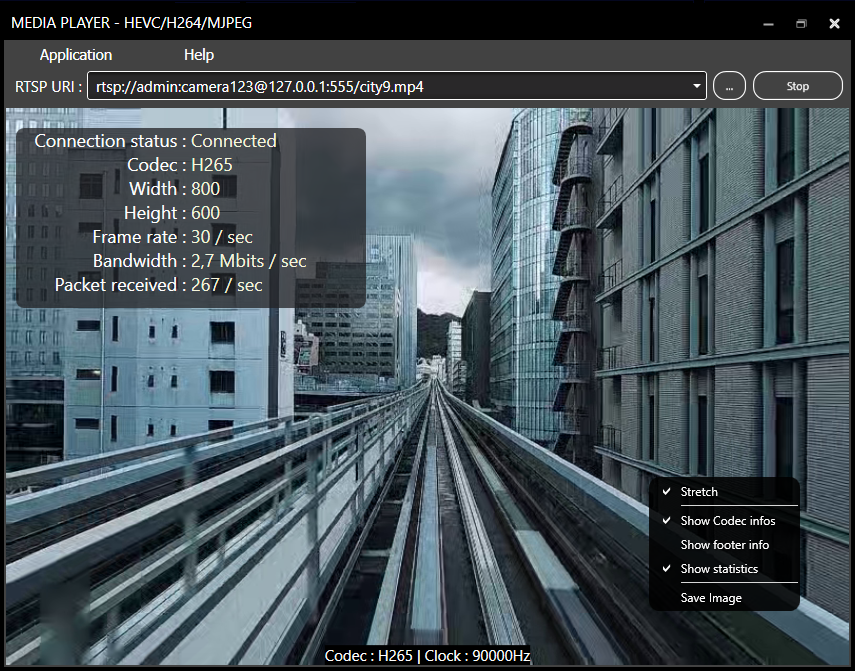
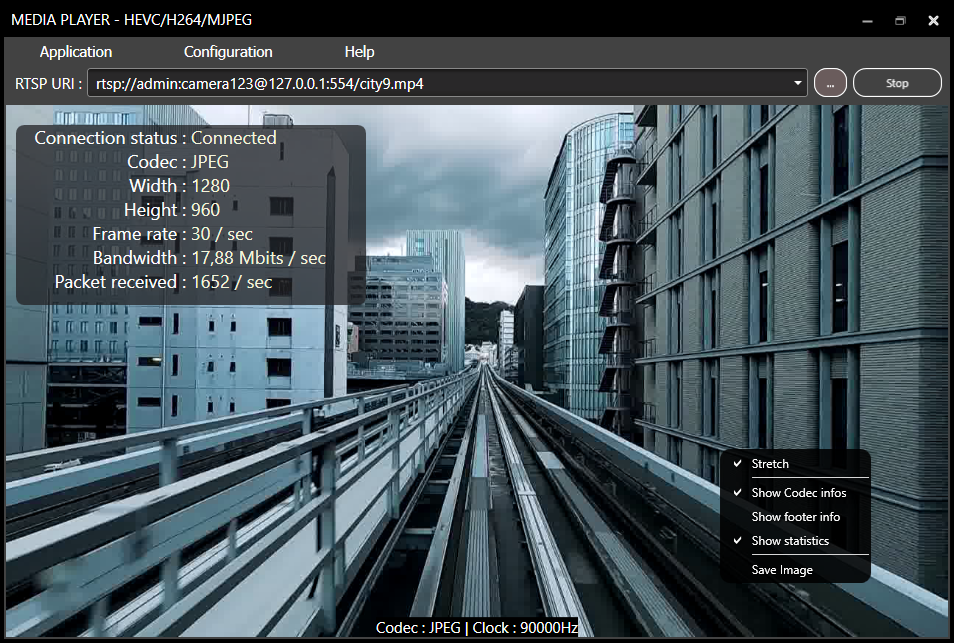
adding the network settings dialog

diff --git a/RabbitOM.Player/Dialogs/NetworkSettingsDialog.xaml b/RabbitOM.Player/Dialogs/NetworkSettingsDialog.xaml
@@ -1,0 +1,90 @@
+<Window x:Class="RabbitOM.Player.Dialogs.NetworkSettingsDialog"
+        xmlns="http://schemas.microsoft.com/winfx/2006/xaml/presentation"
+        xmlns:x="http://schemas.microsoft.com/winfx/2006/xaml"
+        xmlns:d="http://schemas.microsoft.com/expression/blend/2008"
+        xmlns:mc="http://schemas.openxmlformats.org/markup-compatibility/2006"
+        xmlns:local="clr-namespace:RabbitOM.Player.Dialogs"
+        mc:Ignorable="d"
+        Title="Network settings" 
+        Height="100" 
+        Width="330"
+        MinWidth="330"
+        MinHeight="150"
+        WindowStartupLocation="CenterOwner"
+        Style="{DynamicResource WindowStyle}"
+        >
+
+    <Window.CommandBindings>
+
+        <CommandBinding Command="{x:Static local:AboutDialog.CloseCommand}" Executed="OnClose" />
+
+    </Window.CommandBindings>
+
+    
+    <Grid Background="#FF121212" >
+
+        <Grid.RowDefinitions>
+
+            <RowDefinition Height="*" />
+            <RowDefinition Height="50" />
+            
+        </Grid.RowDefinitions>
+
+        <Grid Grid.Row="0"
+              Margin="0,30,0,0"
+              >
+
+            <Grid>
+
+                <Grid.ColumnDefinitions>
+                    <ColumnDefinition Width="100" />
+                    <ColumnDefinition Width="*" />
+                </Grid.ColumnDefinitions>
+
+                <Grid Grid.Column="0" >
+
+                    <TextBlock Text="Transport :"
+                               Foreground="White"
+                               HorizontalAlignment="Right"
+                               />
+
+                </Grid>
+
+                <Grid Grid.Column="1" 
+                      Margin="10,0,0,0"
+                      >
+
+                    <ComboBox  Text=""
+                               Foreground="White"
+                               HorizontalAlignment="Left"
+                               VerticalAlignment="Top"
+                               IsEditable="False"
+                               IsReadOnly="True"
+                               Background="Black"
+                               Width="200"
+                               Margin="0,-1,0,0"
+                               SelectedIndex="0"
+                               ItemsSource="{Binding Transports,RelativeSource={RelativeSource AncestorType=Window}}"
+                               />
+
+                </Grid>
+
+            </Grid>
+
+        </Grid>
+
+        <Grid Grid.Row="1">
+
+            <Button Content="Ok"
+                    HorizontalAlignment="Right"
+                    VerticalAlignment="Bottom"
+                    Width="80"
+                    Margin="0,0,10,10"
+                    IsCancel="True"
+                    Command="{x:Static local:AboutDialog.CloseCommand}"
+                    />
+        </Grid>
+        
+    </Grid>
+    
+</Window>

diff --git a/RabbitOM.Player/Styles/ComboBoxStyle.xaml b/RabbitOM.Player/Styles/ComboBoxStyle.xaml
@@ -10,10 +10,12 @@
     </LinearGradientBrush>
 
     <ControlTemplate  x:Key="ComboBoxTextBox" TargetType="{x:Type TextBox}">
+
         <ScrollViewer x:Name="PART_ContentHost" 
                       Focusable="False" 
                       Background="{TemplateBinding Background}" 
                       />
+        
     </ControlTemplate>
 
     <ControlTemplate x:Key="ComboBoxToggleButton" TargetType="{x:Type ToggleButton}">
@@ -120,6 +122,7 @@
                              To="0.0" 
                              Duration="0:0:0.25"
                              />
+                        
                     </Storyboard>
 
                 </BeginStoryboard>
@@ -366,6 +369,11 @@
                     
                     <ControlTemplate.Triggers>
 
+                        <Trigger Property="IsReadOnly" Value="True">
+                            <Setter TargetName="ToggleButton" Property="HorizontalAlignment" Value="Stretch" />
+                            <Setter TargetName="ToggleButton" Property="Width" Value="Auto" />
+                        </Trigger>
+                        
                         <Trigger Property="IsFocused" Value="True">
                             <Setter Property="BorderBrush" TargetName="Border" Value="White"/>
                         </Trigger>

diff --git a/RabbitOM.Player/MainWindow.xaml b/RabbitOM.Player/MainWindow.xaml
@@ -42,6 +42,10 @@
                         Executed="OnShowUrisDialog"
                         />
 
+        <CommandBinding Command="{x:Static local:MainWindow.ShowNetworkSettingsDialogCommand}" 
+                        Executed="OnShowNetworkSettingsDialog"
+                        />
+
         <CommandBinding Command="{x:Static ApplicationCommands.Close}"
                         Executed="OnCloseApplication" 
                         />
@@ -56,6 +60,10 @@
                 <MenuItem Header="Close" Command="{x:Static ApplicationCommands.Close}" />
             </MenuItem>
 
+            <MenuItem Header="Configuration">
+                <MenuItem Header="Network settings" Command="{x:Static local:MainWindow.ShowNetworkSettingsDialogCommand}" />
+            </MenuItem>
+            
             <MenuItem Header="Help">
                 <MenuItem Header="Version" Command="{x:Static local:MainWindow.ShowAboutDialogCommand}" />
             </MenuItem>

diff --git a/RabbitOM.Player/Dialogs/UrisDialog.xaml b/RabbitOM.Player/Dialogs/UrisDialog.xaml
@@ -5,7 +5,7 @@
         xmlns:mc="http://schemas.openxmlformats.org/markup-compatibility/2006"
         xmlns:local="clr-namespace:RabbitOM.Player.Dialogs"
         mc:Ignorable="d"
-        Title="About" 
+        Title="Sources" 
         Height="490" 
         Width="480"
         MinWidth="380"

diff --git a/RabbitOM.Player/MainWindow.xaml.cs b/RabbitOM.Player/MainWindow.xaml.cs
@@ -28,6 +28,7 @@ namespace RabbitOM.Player
         public static readonly RoutedCommand SaveImageCommand = new RoutedCommand();
         public static readonly RoutedCommand ShowAboutDialogCommand = new RoutedCommand();
         public static readonly RoutedCommand ShowUrisDialogCommand = new RoutedCommand();
+        public static readonly RoutedCommand ShowNetworkSettingsDialogCommand = new RoutedCommand();
 
         public static readonly DependencyProperty ImageProperty = DependencyProperty.Register( "Image", typeof(ImageSource) , typeof(MainWindow) );
         public static readonly DependencyProperty StatusInfoProperty = DependencyProperty.Register( "StatusInfo", typeof(string) , typeof(MainWindow) );
@@ -196,6 +197,13 @@ namespace RabbitOM.Player
                 Uris.AddRange( dialog.Uris.Select( uri => uri.Value ) );
                 SelectedUri = Uris.Contains( selectedUri ) ? selectedUri : Uris.FirstOrDefault();
             }
+        }
+
+        private void OnShowNetworkSettingsDialog( object sender , ExecutedRoutedEventArgs e )
+        {
+            var dialog = new NetworkSettingsDialog() { Owner = Window.GetWindow( this ) };
+
+            dialog.ShowDialog();
         }
 
         private void OnCommunicationStarted( object sender , RtspClientCommunicationStartedEventArgs e )

diff --git a/RabbitOM.Player/Dialogs/NetworkSettingsDialog.xaml.cs b/RabbitOM.Player/Dialogs/NetworkSettingsDialog.xaml.cs
@@ -1,0 +1,27 @@
+using System;
+using System.Collections.ObjectModel;
+using System.Windows;
+using System.Windows.Input;
+
+namespace RabbitOM.Player.Dialogs
+{
+    public partial class NetworkSettingsDialog : Window
+    {
+        public static readonly RoutedCommand CloseCommand = new RoutedCommand();
+
+        public NetworkSettingsDialog()
+        {
+            InitializeComponent();
+        }
+
+        public ObservableCollection<string> Transports { get; } = new ObservableCollection<string>()
+        {
+            "TCP" , "UDP" , "MULTICAST"
+        };
+
+        private void OnClose( object sender , ExecutedRoutedEventArgs e )
+        {
+            Close();
+        }
+    }
+}
